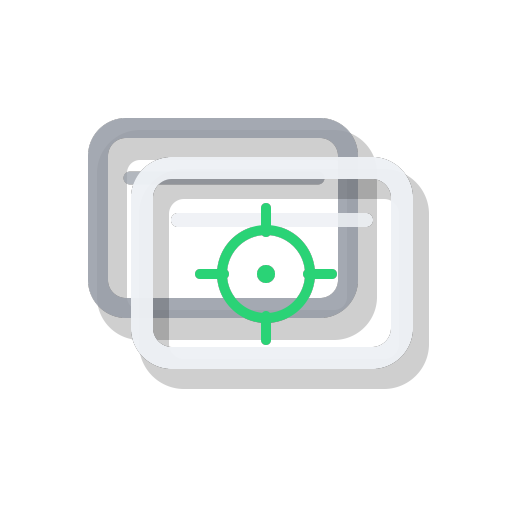
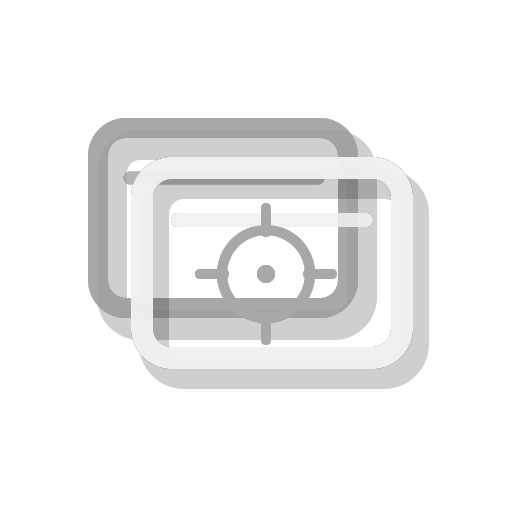
Improve focused app handling

Changed region(s): [[0.375, 0.375, 0.6562, 0.6875], [0.5, 0.5, 0.5312, 0.5625]]

diff --git a/src/focus-app.tsx b/src/focus-app.tsx
@@ -2,12 +2,13 @@ import {
   Action,
   ActionPanel,
   clearSearchBar,
-  Color,
   getApplications,
+  getFrontmostApplication,
   Icon,
   List,
   showToast,
   Toast,
+  updateCommandMetadata,
 } from "@raycast/api";
 import { execFile } from "node:child_process";
 import { accessSync, constants, existsSync } from "node:fs";
@@ -32,6 +33,8 @@ const EXEC_ENV = { ...process.env, PATH: COMMAND_PATH, USER };
 const COMMAND_TIMEOUT_MS = 5000;
 const OPEN_COMMAND = "/usr/bin/open";
 const STARTUP_REFRESH_DELAYS_MS = [400, 900, 1600, 3000];
+const BACKGROUND_REFRESH_INTERVAL_MS = 1000;
+const FOCUS_SHORTCUT_KEYS = ["1", "2", "3", "4", "5", "6", "7", "8", "9", "0"] as const;
 const APP_SEARCH_DIRECTORIES = [
   "/Applications",
   join(HOME_DIRECTORY, "Applications"),
@@ -53,6 +56,15 @@ type RefreshOptions = {
 
 type AppIconsByName = Map<string, string>;
 type AppIconFallbacksByName = Map<string, string | undefined>;
+type WindowSnapshot = {
+  windows: YabaiWindow[];
+  focusedAppKey?: string;
+  focusedAppName?: string;
+};
+type WindowGroups = {
+  unfocusedWindows: YabaiWindow[];
+  focusedAppWindows: YabaiWindow[];
+};
 
 class CommandError extends Error {
   code?: string | number;
@@ -254,20 +266,16 @@ function isFocusableWindow(window: YabaiWindow): boolean {
   );
 }
 
-function sortWindows(windows: YabaiWindow[]): YabaiWindow[] {
+function sortWindows(windows: YabaiWindow[], focusedAppKey: string | undefined): YabaiWindow[] {
   if (windows.length <= 1) {
     return windows;
   }
 
   return [...windows].sort((a, b) => {
-    const focusComparison = Number(a["has-focus"] === true) - Number(b["has-focus"] === true);
-    if (focusComparison !== 0) {
-      return focusComparison;
-    }
-
-    const visibleComparison = Number(b["is-visible"] === true) - Number(a["is-visible"] === true);
-    if (visibleComparison !== 0) {
-      return visibleComparison;
+    const focusedAppComparison =
+      Number(isFocusedAppWindow(a, focusedAppKey)) - Number(isFocusedAppWindow(b, focusedAppKey));
+    if (focusedAppComparison !== 0) {
+      return focusedAppComparison;
     }
 
     const appComparison = a.app.localeCompare(b.app);
@@ -277,6 +285,77 @@ function sortWindows(windows: YabaiWindow[]): YabaiWindow[] {
 
     return a.title.localeCompare(b.title);
   });
+}
+
+function focusedAppKeyForWindows(windows: YabaiWindow[]): string | undefined {
+  const focusedWindow = windows.find(
+    (window) => window["has-focus"] === true && !IGNORED_APP_NAMES.has(appNameKey(window.app)),
+  );
+
+  if (focusedWindow) {
+    return appNameKey(focusedWindow.app);
+  }
+
+  const focusedIgnoredWindowIndex = windows.findIndex(
+    (window) => window["has-focus"] === true && IGNORED_APP_NAMES.has(appNameKey(window.app)),
+  );
+  if (focusedIgnoredWindowIndex === -1) {
+    return undefined;
+  }
+
+  const previousFocusedWindow = windows
+    .slice(focusedIgnoredWindowIndex + 1)
+    .find(isFocusableWindow);
+
+  return previousFocusedWindow ? appNameKey(previousFocusedWindow.app) : undefined;
+}
+
+function isFocusedAppWindow(window: YabaiWindow, focusedAppKey: string | undefined): boolean {
+  return focusedAppKey !== undefined && appNameKey(window.app) === focusedAppKey;
+}
+
+function groupWindowsByFocusedApp(
+  windows: YabaiWindow[],
+  focusedAppKey: string | undefined,
+): WindowGroups {
+  const unfocusedWindows: YabaiWindow[] = [];
+  const focusedAppWindows: YabaiWindow[] = [];
+
+  for (const window of windows) {
+    if (isFocusedAppWindow(window, focusedAppKey)) {
+      focusedAppWindows.push(window);
+    } else {
+      unfocusedWindows.push(window);
+    }
+  }
+
+  return { unfocusedWindows, focusedAppWindows };
+}
+
+function areWindowListsEqual(a: YabaiWindow[], b: YabaiWindow[]): boolean {
+  return a.length === b.length && a.every((window, index) => areWindowsEqual(window, b[index]));
+}
+
+function areWindowsEqual(a: YabaiWindow, b: YabaiWindow | undefined): boolean {
+  return (
+    b !== undefined &&
+    a.id === b.id &&
+    a.app === b.app &&
+    a.title === b.title &&
+    a.space === b.space &&
+    a.display === b.display &&
+    a["is-minimized"] === b["is-minimized"] &&
+    a["is-hidden"] === b["is-hidden"] &&
+    a["has-ax-reference"] === b["has-ax-reference"] &&
+    a["is-visible"] === b["is-visible"] &&
+    a["has-focus"] === b["has-focus"]
+  );
+}
+
+function shortcutForUnfocusedWindow(index: number): Action.Props["shortcut"] | undefined {
+  const key = FOCUS_SHORTCUT_KEYS[index];
+
+  return key ? { modifiers: ["cmd"], key } : undefined;
 }
 
 function formatCommand(window: YabaiWindow): string {
@@ -342,9 +421,35 @@ function formatErrorMessage(error: unknown): string {
   return "Unknown error";
 }
 
-async function loadWindows(): Promise<YabaiWindow[]> {
+async function loadWindows(): Promise<WindowSnapshot> {
   const { stdout } = await runYabai(["-m", "query", "--windows"]);
-  return sortWindows(parseYabaiWindows(stdout).filter(isFocusableWindow));
+  const allWindows = parseYabaiWindows(stdout);
+  const focusableWindows = allWindows.filter(isFocusableWindow);
+  const focusedAppKey =
+    (await frontmostAppKeyForWindows(focusableWindows)) ?? focusedAppKeyForWindows(allWindows);
+  const windows = sortWindows(focusableWindows, focusedAppKey);
+  const focusedAppName = windows.find((window) => isFocusedAppWindow(window, focusedAppKey))?.app;
+
+  return { windows, focusedAppKey, focusedAppName };
+}
+
+async function frontmostAppKeyForWindows(windows: YabaiWindow[]): Promise<string | undefined> {
+  try {
+    const frontmostApplication = await getFrontmostApplication();
+    const frontmostAppKey = appNameKey(
+      frontmostApplication.localizedName ?? frontmostApplication.name,
+    );
+
+    if (IGNORED_APP_NAMES.has(frontmostAppKey)) {
+      return undefined;
+    }
+
+    return windows.some((window) => isFocusedAppWindow(window, frontmostAppKey))
+      ? frontmostAppKey
+      : undefined;
+  } catch {
+    return undefined;
+  }
 }
 
 function appNameKey(name: string): string {
@@ -410,14 +515,6 @@ async function focusWindow(window: YabaiWindow): Promise<void> {
   }
 }
 
-function accessoriesForWindow(window: YabaiWindow): List.Item.Accessory[] | undefined {
-  if (window["has-focus"] !== true) {
-    return undefined;
-  }
-
-  return [{ icon: { source: Icon.Dot, tintColor: Color.Green } }];
-}
-
 function iconForWindow(
   window: YabaiWindow,
   appIconsByName: AppIconsByName,
@@ -435,6 +532,8 @@ function iconForWindow(
 
 export default function Command() {
   const [windows, setWindows] = useState<YabaiWindow[]>([]);
+  const [focusedAppKey, setFocusedAppKey] = useState<string>();
+  const [focusedAppName, setFocusedAppName] = useState<string>();
   const [appIconsByName, setAppIconsByName] = useState<AppIconsByName>(() => new Map());
   const [isLoading, setIsLoading] = useState(true);
   const [errorMessage, setErrorMessage] = useState<string>();
@@ -446,6 +545,7 @@ export default function Command() {
   useEffect(() => {
     isMountedRef.current = true;
     void clearSearchBar({ forceScrollToTop: true });
+    void updateCommandMetadata({ subtitle: null });
 
     return () => {
       isMountedRef.current = false;
@@ -469,15 +569,31 @@ export default function Command() {
     }
 
     try {
-      const nextWindows = await loadWindows();
+      const nextWindowSnapshot = await loadWindows();
       if (!isMountedRef.current) {
         return;
       }
 
-      setWindows(nextWindows);
-      setErrorMessage(undefined);
+      setWindows((currentWindows) =>
+        areWindowListsEqual(currentWindows, nextWindowSnapshot.windows)
+          ? currentWindows
+          : nextWindowSnapshot.windows,
+      );
+      setFocusedAppKey((currentFocusedAppKey) =>
+        currentFocusedAppKey === nextWindowSnapshot.focusedAppKey
+          ? currentFocusedAppKey
+          : nextWindowSnapshot.focusedAppKey,
+      );
+      setFocusedAppName((currentFocusedAppName) =>
+        currentFocusedAppName === nextWindowSnapshot.focusedAppName
+          ? currentFocusedAppName
+          : nextWindowSnapshot.focusedAppName,
+      );
+      setErrorMessage((currentErrorMessage) =>
+        currentErrorMessage === undefined ? currentErrorMessage : undefined,
+      );
 
-      if (nextWindows.length === 0 && !isBackground) {
+      if (nextWindowSnapshot.windows.length === 0 && !isBackground) {
         await showToast({
           style: Toast.Style.Failure,
           title: "No focusable yabai windows",
@@ -491,8 +607,13 @@ export default function Command() {
 
       const message = formatCommandError(error);
       setErrorMessage(message);
-      setWindows([]);
-
+      setWindows((currentWindows) => (currentWindows.length === 0 ? currentWindows : []));
+      setFocusedAppKey((currentFocusedAppKey) =>
+        currentFocusedAppKey === undefined ? currentFocusedAppKey : undefined,
+      );
+      setFocusedAppName((currentFocusedAppName) =>
+        currentFocusedAppName === undefined ? currentFocusedAppName : undefined,
+      );
       if (!isBackground) {
         await showToast({
           style: Toast.Style.Failure,
@@ -524,11 +645,15 @@ export default function Command() {
         void refresh({ isBackground: true });
       }, delay),
     );
+    const refreshInterval = setInterval(() => {
+      void refresh({ isBackground: true });
+    }, BACKGROUND_REFRESH_INTERVAL_MS);
 
     return () => {
       for (const timeout of timeouts) {
         clearTimeout(timeout);
       }
+      clearInterval(refreshInterval);
     };
   }, [refresh]);
 
@@ -559,7 +684,10 @@ export default function Command() {
   const emptyTitle = errorMessage ? "Could not query yabai windows" : "No focusable yabai windows";
   const emptyDescription = errorMessage ?? "Hidden, minimized, and non-AX windows are ignored.";
 
-  const items = useMemo(() => windows, [windows]);
+  const { unfocusedWindows } = useMemo(
+    () => groupWindowsByFocusedApp(windows, focusedAppKey),
+    [focusedAppKey, windows],
+  );
   const appIconFallbacksByName = useMemo(() => {
     const fallbackPaths: AppIconFallbacksByName = new Map();
 
@@ -586,45 +714,58 @@ export default function Command() {
     await focusWindow(window);
   }, []);
 
+  const renderWindowItem = (
+    window: YabaiWindow,
+    options: { focusShortcut?: Action.Props["shortcut"]; canFocus: boolean },
+  ) => (
+    <List.Item
+      key={window.id}
+      icon={iconForWindow(window, appIconsByName, appIconFallbacksByName)}
+      title={window.app}
+      subtitle={formatSubtitle(window) || undefined}
+      keywords={[window.app, window.title, String(window.space)]}
+      actions={
+        options.canFocus && (
+          <ActionPanel>
+            <Action
+              title="Focus Window"
+              icon={Icon.Window}
+              shortcut={options.focusShortcut}
+              onAction={() => void focusSelectedWindow(window)}
+            />
+            <Action.CopyToClipboard
+              title="Copy Yabai Focus Command"
+              shortcut={{ modifiers: ["cmd"], key: "." }}
+              content={formatCommand(window)}
+            />
+            <Action
+              title="Refresh"
+              icon={Icon.ArrowClockwise}
+              shortcut={{ modifiers: ["cmd"], key: "r" }}
+              onAction={refresh}
+            />
+          </ActionPanel>
+        )
+      }
+    />
+  );
+
   return (
     <List
       isLoading={isLoading}
+      navigationTitle={focusedAppName ?? "Focus App"}
       searchBarPlaceholder="Search yabai windows/apps"
       searchText={searchText}
       filtering
       onSearchTextChange={setSearchText}
     >
       <List.EmptyView title={emptyTitle} description={emptyDescription} />
-      {items.map((window) => (
-        <List.Item
-          key={window.id}
-          icon={iconForWindow(window, appIconsByName, appIconFallbacksByName)}
-          title={window.app}
-          subtitle={formatSubtitle(window) || undefined}
-          accessories={accessoriesForWindow(window)}
-          keywords={[window.app, window.title, String(window.space)]}
-          actions={
-            <ActionPanel>
-              <Action
-                title="Focus Window"
-                icon={Icon.Window}
-                onAction={() => void focusSelectedWindow(window)}
-              />
-              <Action.CopyToClipboard
-                title="Copy Yabai Focus Command"
-                shortcut={{ modifiers: ["cmd"], key: "." }}
-                content={formatCommand(window)}
-              />
-              <Action
-                title="Refresh"
-                icon={Icon.ArrowClockwise}
-                shortcut={{ modifiers: ["cmd"], key: "r" }}
-                onAction={refresh}
-              />
-            </ActionPanel>
-          }
-        />
-      ))}
+      {unfocusedWindows.map((window, index) =>
+        renderWindowItem(window, {
+          canFocus: true,
+          focusShortcut: shortcutForUnfocusedWindow(index),
+        }),
+      )}
     </List>
   );
 }

diff --git a/README.md b/README.md
@@ -10,7 +10,9 @@ Yabai Focus is built for macOS users who already use `yabai` for window manageme
 - Shows app icons when Raycast can resolve the macOS application bundle.
 - Keeps multiple windows from the same app as separate results.
 - Excludes Raycast's own command palette from results.
-- Deprioritizes the currently focused window so switching targets are easier to reach.
+- Keeps unfocused apps sorted alphabetically by app name, then window title.
+- Removes the currently focused app from the result list and shows its name in the command title.
+- Reserves `Cmd-1` through `Cmd-0` focus shortcuts for unfocused apps.
 - Focuses the selected window with `yabai -m window --focus <window-id>`.
 - Falls back to `open -a <app-name>` if `yabai` cannot focus the window.
 - Refreshes shortly after opening so newly launched apps can appear without reopening Raycast.